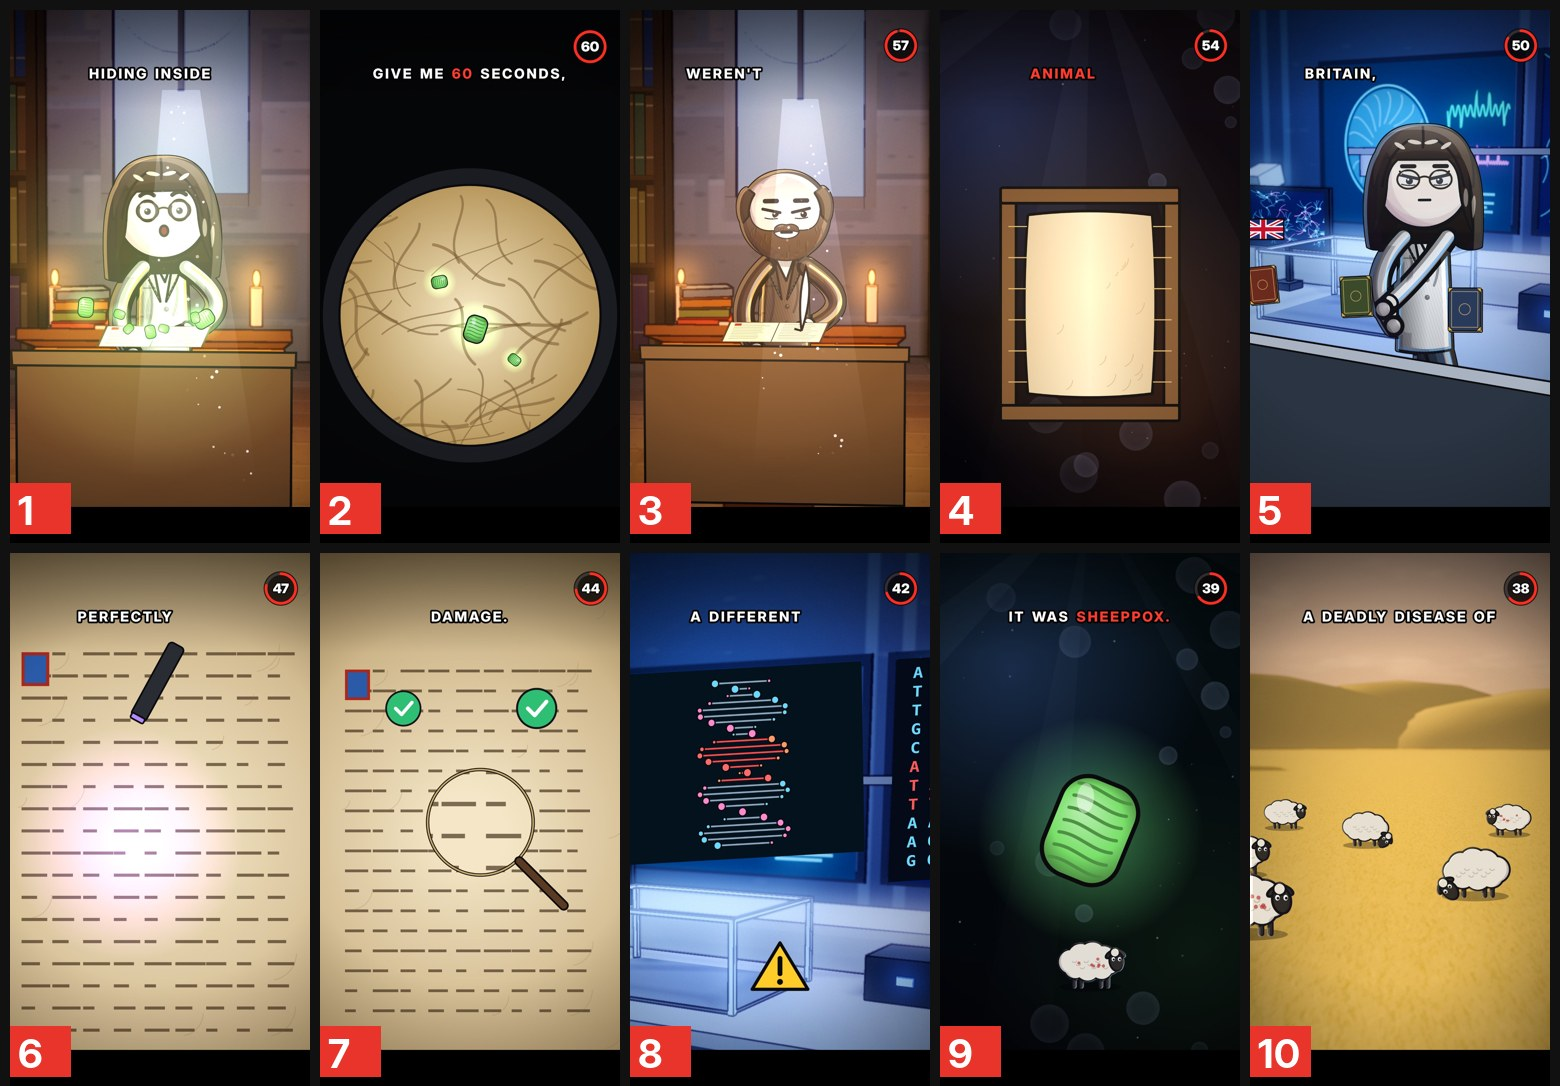
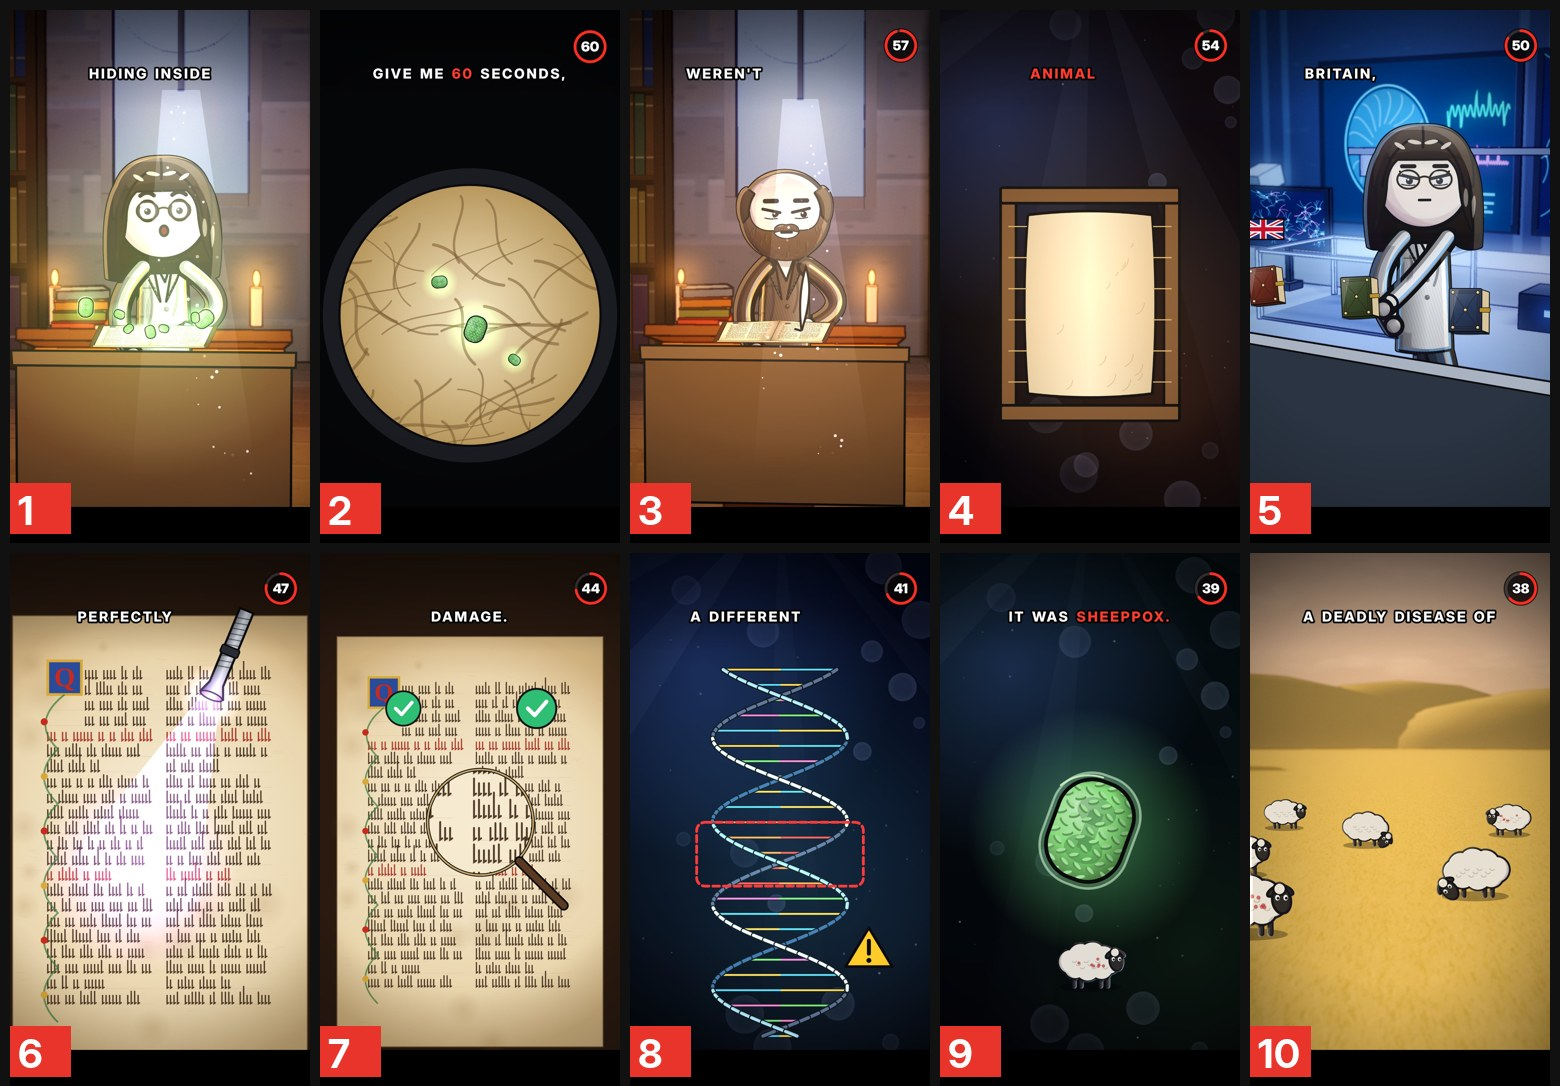
Virus video: better virus, UV torch, manuscript books/pages, DNA helix
Claude-Session: https://claude.ai/code/session_01WmZXnGWPQwk3MGbLdxyYXF

diff --git a/storybit/projects/virus/vr_chars.js b/storybit/projects/virus/vr_chars.js
@@ -66,3 +66,85 @@ function codex(c,x,y,s,rot,o={}){c.save();c.translate(x,y);c.rotate(rot);c.lineJ
   c.strokeStyle='rgba(230,190,110,0.8)';c.lineWidth=4*s;c.strokeRect(-84*s,-112*s,160*s,218*s);c.beginPath();c.arc(-4*s,-4*s,34*s,0,TAU);c.stroke();
   c.fillStyle='#d8b050';c.strokeStyle=K2;c.lineWidth=3*s;for(const [cx,cy] of [[-104,-134],[96,-134],[-104,128],[96,128]]){c.beginPath();c.moveTo(cx*s,cy*s);c.lineTo((cx+(cx<0?30:-30))*s,cy*s);c.lineTo(cx*s,(cy+(cy<0?30:-30))*s);c.closePath();c.fill();c.stroke();}
   if(o.glow)lightPool(c,0,0,220*s,'120,255,140',0.4*o.glow);c.restore();}
+// ===================== v2 props: better virus, helix, manuscripts =====================
+// poxvirus: rounded-brick body, translucent outer membrane, dense knobbly surface tubules, faint dumbbell core
+virusP=function(c,x,y,r,t,o={}){c.save();c.translate(x,y);c.rotate((o.rot||0)+Math.sin(t*0.8+(o.rot||0))*0.08);c.lineJoin='round';c.lineCap='round';const col=o.col||'#86e07a';
+  if(o.glow!==0)lightPool(c,0,0,r*2.6,o.gc||'120,255,140',0.4);
+  const body=()=>{rr(c,-r*0.82,-r*1.08,r*1.64,r*2.16,r*0.74);};
+  // outer membrane halo
+  c.fillStyle='rgba(200,255,200,0.18)';c.strokeStyle='rgba(220,255,220,0.55)';c.lineWidth=r*0.05;rr(c,-r*0.95,-r*1.22,r*1.9,r*2.44,r*0.86);c.fill();c.stroke();
+  const g=c.createRadialGradient(-r*0.35,-r*0.45,r*0.1,0,0,r*1.25);g.addColorStop(0,shd(col,0.5));g.addColorStop(0.55,col);g.addColorStop(1,shd(col,-0.5));c.fillStyle=g;body();c.fill();
+  c.save();body();c.clip();
+  // faint inner core (dumbbell) seen through the surface
+  c.fillStyle='rgba(30,90,40,0.28)';c.beginPath();c.ellipse(0,-r*0.42,r*0.42,r*0.3,0,0,TAU);c.ellipse(0,r*0.42,r*0.42,r*0.3,0,0,TAU);c.fill();c.fillRect(-r*0.16,-r*0.42,r*0.32,r*0.84);
+  // surface tubules: short rounded ridges in a woven pattern, lit on top
+  for(let row=0;row<11;row++)for(let k=0;k<6;k++){const yy=-r*1.0+row*r*0.2,xx=-r*0.72+k*r*0.29+(row%2)*r*0.145,a=(row%2?0.5:-0.5);
+    c.save();c.translate(xx,yy);c.rotate(a);c.fillStyle=shd(col,-0.3);c.beginPath();c.ellipse(0,r*0.02,r*0.12,r*0.05,0,0,TAU);c.fill();c.fillStyle=shd(col,0.25);c.beginPath();c.ellipse(0,-r*0.01,r*0.1,r*0.035,0,0,TAU);c.fill();c.restore();}
+  // shading toward the shadow side + rim light
+  const sg=c.createLinearGradient(-r,0,r,0);sg.addColorStop(0,'rgba(255,255,255,0.12)');sg.addColorStop(0.6,'rgba(0,0,0,0)');sg.addColorStop(1,'rgba(0,30,0,0.4)');c.fillStyle=sg;c.fillRect(-r,-r*1.2,r*2,r*2.4);c.restore();
+  c.strokeStyle=K2;c.lineWidth=Math.max(2,r*0.08);body();c.stroke();
+  c.strokeStyle='rgba(220,255,200,0.8)';c.lineWidth=Math.max(1.5,r*0.04);c.beginPath();c.arc(-r*0.1,-r*0.2,r*0.95,-2.6,-1.6);c.stroke();
+  c.restore();};
+// DNA double helix: two continuous backbone ribbons with depth (back strand drawn first, darker), base-pair rungs
+helix=function(c,x,y,h,w,t,o={}){c.save();c.translate(x,y);const N=80,turns=2.2,ph=t*1.6;const pt=(u,s)=>{const a=u*Math.PI*2*turns+ph+(s?Math.PI:0);return {x:Math.sin(a)*w,y:-h/2+u*h,z:Math.cos(a)};};
+  const bad=u=>o.bad&&u>=o.bad[0]/26&&u<=o.bad[1]/26;
+  // rungs (behind first, then ribbons by depth)
+  for(let i=0;i<=24;i++){const u=i/24,A=pt(u,0),B=pt(u,1);const mid={x:(A.x+B.x)/2,y:A.y};const cA=bad(u)?'#ff4a3a':['#5ad0ff','#ffd04a','#7ae06a','#ff7ac8'][i%4],cB=bad(u)?'#ff9a3a':['#ffd04a','#5ad0ff','#ff7ac8','#7ae06a'][i%4];
+    c.lineCap='round';c.strokeStyle=K2;c.lineWidth=11;seg(c,A.x,A.y,B.x,B.y);c.strokeStyle=cA;c.lineWidth=6;seg(c,A.x,A.y,mid.x,mid.y);c.strokeStyle=cB;seg(c,mid.x,mid.y,B.x,B.y);}
+  for(const pass of [0,1])for(const s of [0,1]){for(let i=0;i<N;i++){const u0=i/N,u1=(i+1)/N,P0=pt(u0,s),P1=pt(u1,s);const front=P0.z>0;if((pass===1)!==front)continue;
+      c.lineCap='round';c.strokeStyle=K2;c.lineWidth=18;seg(c,P0.x,P0.y,P1.x,P1.y);c.strokeStyle=front?(s?'#9ad8ff':'#e8f4ff'):(s?'#3a6a9a':'#5a6a8a');c.lineWidth=11;seg(c,P0.x,P0.y,P1.x,P1.y);
+      if(front){c.strokeStyle='rgba(255,255,255,0.6)';c.lineWidth=3;seg(c,P0.x-3,P0.y,P1.x-3,P1.y);}}}
+  if(o.glowOn!==0){c.globalCompositeOperation='lighter';const g=c.createRadialGradient(0,0,0,0,0,h*0.7);g.addColorStop(0,'rgba(90,200,255,0.18)');g.addColorStop(1,'rgba(90,200,255,0)');c.fillStyle=g;c.fillRect(-h,-h,2*h,2*h);}
+  c.restore();};
+// handwritten medieval script line (gothic minims) in a box
+function scriptLine(g,x,y,w,sz,col='rgba(50,30,15,0.85)',seed=0){g.save();g.strokeStyle=col;g.lineWidth=Math.max(1.2,sz*0.16);g.lineCap='round';let cx=x;let i=0;while(cx<x+w-sz){const wl=2+Math.floor(hash(seed+i*1.7)*5);for(let k=0;k<wl&&cx<x+w;k++){const hh=sz*(hash(seed+i+k*3.3)>0.82?1.5:1),up=hash(seed*3+i+k)>0.86;g.beginPath();g.moveTo(cx,y-(up?hh*1.4:hh));g.lineTo(cx,y);g.lineTo(cx+sz*0.18,y-sz*0.12);g.stroke();cx+=sz*0.42;}cx+=sz*0.55;i++;}g.restore();}
+// parchment surface (aged, fibrous, stains) filling w×h at 0,0
+function parchment(g,w,h,seed=0){const gr=g.createRadialGradient(w*0.5,h*0.45,w*0.1,w*0.5,h*0.5,w*0.8);gr.addColorStop(0,'#f6ead0');gr.addColorStop(0.7,'#ead6ae');gr.addColorStop(1,'#cfb07e');g.fillStyle=gr;g.fillRect(0,0,w,h);
+  for(let i=0;i<14;i++){const sx=hash(i*3+seed)*w,sy=hash(i*5+seed)*h,r=10+hash(i*7+seed)*w*0.08;const sgr=g.createRadialGradient(sx,sy,0,sx,sy,r);sgr.addColorStop(0,'rgba(150,110,60,0.18)');sgr.addColorStop(1,'rgba(150,110,60,0)');g.fillStyle=sgr;g.fillRect(sx-r,sy-r,2*r,2*r);}
+  g.strokeStyle='rgba(160,130,90,0.18)';g.lineWidth=1;for(let i=0;i<60;i++){const fx=hash(i*1.3+seed)*w,fy=hash(i*2.9+seed)*h;g.beginPath();g.moveTo(fx,fy);g.quadraticCurveTo(fx+8,fy+3,fx+16+hash(i)*20,fy+(hash(i*4)-0.5)*6);g.stroke();}}
+// one manuscript page: margins, two ruled columns of script, a gold+red illuminated initial, small border vine
+function msPage(g,w,h,seed=0,o={}){parchment(g,w,h,seed);const m=w*0.12,cw=(w-m*2.4)/2,sz=Math.max(3,h*0.018);
+  g.strokeStyle='rgba(170,120,90,0.25)';g.lineWidth=1;for(let col=0;col<2;col++){const x0=m+col*(cw+m*0.4);for(let i=0;i<22;i++){const yy=h*0.14+i*h*0.034;if(yy>h*0.88)break;g.beginPath();g.moveTo(x0,yy);g.lineTo(x0+cw,yy);g.stroke();const skip=(col===0&&i<4);scriptLine(g,x0+(skip?cw*0.36:0),yy-1,skip?cw*0.64:cw*(i%7===6?0.6:1),sz,i%9===4?'rgba(160,30,20,0.85)':'rgba(50,30,15,0.85)',seed*13+col*50+i*3);}}
+  // illuminated initial
+  const ix=m,iy=h*0.1,is=cw*0.32;g.fillStyle='#2a4a9a';g.fillRect(ix,iy,is,is);g.strokeStyle='#d8a838';g.lineWidth=Math.max(2,is*0.08);g.strokeRect(ix,iy,is,is);g.fillStyle='#c82a1e';g.font=`900 ${is*0.8}px serif`;g.textAlign='center';g.textBaseline='middle';g.fillText('Q',ix+is/2,iy+is*0.55);
+  g.strokeStyle='rgba(60,120,60,0.7)';g.lineWidth=Math.max(1.5,w*0.006);g.beginPath();g.moveTo(ix+is*0.5,iy+is);for(let k=0;k<6;k++){g.quadraticCurveTo(ix-m*0.5,iy+is+k*h*0.12+h*0.06,ix+is*0.3,iy+is+(k+1)*h*0.12);}g.stroke();for(let k=0;k<6;k++){g.fillStyle=k%2?'#d8a838':'#c82a1e';g.beginPath();g.arc(ix-m*0.1,iy+is+(k+0.5)*h*0.12,Math.max(2,w*0.012),0,TAU);g.fill();}}
+// an open codex lying flat, drawn in a w×h box (top-down-ish): thick cover boards, stacked page block, curved pages rising to the spine, gutter shadow
+function openBook(g,w,h,o={}){g.save();g.lineJoin='round';
+  // cover boards
+  g.fillStyle='#4a2414';g.strokeStyle=K2;g.lineWidth=Math.max(3,w*0.008);rr(g,0,h*0.06,w,h*0.94,w*0.02);g.fill();g.stroke();
+  // page block edges (thickness) under each page
+  for(const sd of [0,1]){const x0=sd?w*0.5:w*0.035,x1=sd?w*0.965:w*0.5;for(let k=0;k<5;k++){g.fillStyle=k%2?'#e2cfa4':'#d4bc8c';g.beginPath();g.moveTo(x0,h*0.9+k*h*0.012);g.lineTo(x1,h*0.9+k*h*0.012);g.lineTo(x1,h*0.92+k*h*0.012);g.lineTo(x0,h*0.92+k*h*0.012);g.fill();}}
+  // the two pages: top edge curves up toward the spine
+  for(const sd of [0,1]){g.save();g.beginPath();if(!sd){g.moveTo(w*0.04,h*0.1);g.quadraticCurveTo(w*0.3,h*0.08,w*0.5,h*0.0);g.lineTo(w*0.5,h*0.9);g.quadraticCurveTo(w*0.3,h*0.94,w*0.04,h*0.92);}else{g.moveTo(w*0.96,h*0.1);g.quadraticCurveTo(w*0.7,h*0.08,w*0.5,h*0.0);g.lineTo(w*0.5,h*0.9);g.quadraticCurveTo(w*0.7,h*0.94,w*0.96,h*0.92);}g.closePath();g.clip();
+    g.translate(sd?w*0.5:w*0.04,0);msPage(g,w*0.46,h*0.94,sd*7+(o.seed||0));g.restore();
+    g.strokeStyle=K2;g.lineWidth=Math.max(2.5,w*0.006);g.beginPath();if(!sd){g.moveTo(w*0.04,h*0.1);g.quadraticCurveTo(w*0.3,h*0.08,w*0.5,h*0.0);g.moveTo(w*0.04,h*0.1);g.lineTo(w*0.04,h*0.92);g.quadraticCurveTo(w*0.3,h*0.94,w*0.5,h*0.9);}else{g.moveTo(w*0.96,h*0.1);g.quadraticCurveTo(w*0.7,h*0.08,w*0.5,h*0.0);g.moveTo(w*0.96,h*0.1);g.lineTo(w*0.96,h*0.92);g.quadraticCurveTo(w*0.7,h*0.94,w*0.5,h*0.9);}g.stroke();}
+  // gutter shadow + spine line, light falloff across the curve
+  const gs=g.createLinearGradient(w*0.38,0,w*0.62,0);gs.addColorStop(0,'rgba(60,30,10,0)');gs.addColorStop(0.5,'rgba(60,30,10,0.45)');gs.addColorStop(1,'rgba(60,30,10,0)');g.fillStyle=gs;g.fillRect(w*0.38,0,w*0.24,h*0.92);
+  g.strokeStyle='rgba(40,20,8,0.8)';g.lineWidth=Math.max(2,w*0.005);g.beginPath();g.moveTo(w*0.5,0);g.lineTo(w*0.5,h*0.9);g.stroke();
+  if(o.glow>0){g.globalCompositeOperation='lighter';const gg=g.createRadialGradient(w/2,h/2,0,w/2,h/2,w*0.6);gg.addColorStop(0,`rgba(120,255,140,${0.6*o.glow})`);gg.addColorStop(1,'rgba(120,255,140,0)');g.fillStyle=gg;g.fillRect(0,0,w,h);}
+  g.restore();}
+// closed codex in 3/4: front board with tooling, visible page-block edge + spine thickness, brass bosses and clasp
+codex=function(c,x,y,s,rot,o={}){c.save();c.translate(x,y);c.rotate(rot);c.lineJoin='round';const col=o.col||'#6a2a1e',W2=200*s,H2=262*s,T2=46*s;
+  c.fillStyle='rgba(0,0,0,0.35)';c.beginPath();c.ellipse(T2*0.3,H2*0.52,W2*0.6,18*s,0,0,TAU);c.fill();
+  // page block (right + bottom thickness)
+  c.fillStyle='#e6d4aa';c.strokeStyle=K2;c.lineWidth=5*s;c.beginPath();c.moveTo(W2/2,-H2/2+6*s);c.lineTo(W2/2+T2,-H2/2+6*s+T2*0.35);c.lineTo(W2/2+T2,H2/2+T2*0.35-6*s);c.lineTo(W2/2,H2/2-6*s);c.closePath();c.fill();c.stroke();
+  c.strokeStyle='rgba(150,120,80,0.6)';c.lineWidth=1.5*s;for(let i=1;i<8;i++){const xx=W2/2+i*T2/8;c.beginPath();c.moveTo(xx,-H2/2+6*s+i*T2*0.35/8);c.lineTo(xx,H2/2-6*s+i*T2*0.35/8);c.stroke();}
+  c.fillStyle=shd(col,-0.35);c.strokeStyle=K2;c.lineWidth=5*s;c.beginPath();c.moveTo(-W2/2,H2/2);c.lineTo(W2/2,H2/2);c.lineTo(W2/2+T2,H2/2+T2*0.35);c.lineTo(-W2/2+T2,H2/2+T2*0.35);c.closePath();c.fill();c.stroke();
+  // front board
+  const gb=c.createLinearGradient(-W2/2,-H2/2,W2/2,H2/2);gb.addColorStop(0,shd(col,0.25));gb.addColorStop(0.5,col);gb.addColorStop(1,shd(col,-0.3));c.fillStyle=gb;rr(c,-W2/2,-H2/2,W2,H2,8*s);c.fill();c.stroke();
+  c.strokeStyle='rgba(40,15,8,0.6)';c.lineWidth=3*s;c.strokeRect(-W2/2+16*s,-H2/2+16*s,W2-32*s,H2-32*s);c.strokeRect(-W2/2+28*s,-H2/2+28*s,W2-56*s,H2-56*s);
+  c.beginPath();c.moveTo(-W2/2+28*s,-H2/2+28*s);c.lineTo(W2/2-28*s,H2/2-28*s);c.moveTo(W2/2-28*s,-H2/2+28*s);c.lineTo(-W2/2+28*s,H2/2-28*s);c.stroke();
+  const bs=(bx,by)=>{const g2=c.createRadialGradient(bx-3*s,by-3*s,1,bx,by,13*s);g2.addColorStop(0,'#fff2b8');g2.addColorStop(1,'#8a6420');c.fillStyle=g2;c.strokeStyle=K2;c.lineWidth=3*s;c.beginPath();c.arc(bx,by,11*s,0,TAU);c.fill();c.stroke();};
+  for(const [bx,by] of [[-W2/2+24*s,-H2/2+24*s],[W2/2-24*s,-H2/2+24*s],[-W2/2+24*s,H2/2-24*s],[W2/2-24*s,H2/2-24*s],[0,0]])bs(bx,by);
+  c.fillStyle='#b8902e';c.strokeStyle=K2;c.lineWidth=3*s;rr(c,W2/2-14*s,-14*s,T2+20*s,28*s,4*s);c.fill();c.stroke();
+  c.fillStyle='rgba(255,255,255,0.18)';c.beginPath();c.moveTo(-W2/2+8*s,-H2/2+8*s);c.lineTo(-W2/2+60*s,-H2/2+8*s);c.lineTo(-W2/2+8*s,H2/2-60*s);c.closePath();c.fill();
+  if(o.glow)lightPool(c,0,0,220*s,'120,255,140',0.4*o.glow);c.restore();};
+// handheld UV torch: knurled metal grip, glowing violet lens, beam cone
+function uvTorch(c,x,y,ang,s,beamLen=700){c.save();c.translate(x,y);c.rotate(ang);c.lineJoin='round';
+  c.save();c.globalCompositeOperation='lighter';const bg=c.createLinearGradient(0,0,beamLen*s,0);bg.addColorStop(0,'rgba(170,110,255,0.55)');bg.addColorStop(1,'rgba(150,90,255,0)');c.fillStyle=bg;c.beginPath();c.moveTo(0,-26*s);c.lineTo(beamLen*s,-200*s);c.lineTo(beamLen*s,200*s);c.lineTo(0,26*s);c.closePath();c.fill();c.restore();
+  c.strokeStyle=K2;c.lineWidth=6*s;const mg=c.createLinearGradient(0,-30*s,0,30*s);mg.addColorStop(0,'#8a8e98');mg.addColorStop(0.45,'#d8dce4');mg.addColorStop(1,'#3a3e48');c.fillStyle=mg;
+  c.beginPath();c.moveTo(-260*s,-20*s);c.lineTo(-40*s,-20*s);c.lineTo(-6*s,-34*s);c.lineTo(-6*s,34*s);c.lineTo(-40*s,20*s);c.lineTo(-260*s,20*s);c.closePath();c.fill();c.stroke();
+  c.strokeStyle='rgba(30,30,40,0.55)';c.lineWidth=3*s;for(let i=0;i<10;i++){const xx=-240*s+i*16*s;seg(c,xx,-18*s,xx+8*s,18*s);}
+  c.fillStyle='#2a2c34';rr(c,-150*s,-26*s,24*s,52*s,6*s);c.fill();c.strokeStyle=K2;c.lineWidth=4*s;c.stroke();
+  const lg=c.createRadialGradient(0,0,0,0,0,40*s);lg.addColorStop(0,'#ffffff');lg.addColorStop(0.4,'#c89aff');lg.addColorStop(1,'#6a3ac8');c.fillStyle=lg;c.beginPath();c.ellipse(-4*s,0,10*s,32*s,0,0,TAU);c.fill();c.strokeStyle=K2;c.lineWidth=4*s;c.stroke();
+  lightPool(c,0,0,90*s,'190,140,255',0.6);c.restore();}

diff --git a/storybit/projects/virus/vr_shots.js b/storybit/projects/virus/vr_shots.js
@@ -8,10 +8,7 @@ function deskFront(c){occluder(c,[[-0.7,0.78,-0.85],[0.7,0.78,-0.85],[0.7,0,-0.8
 function candles(c,t,a=1){for(const [i,p] of CANDLES.entries()){const q=pp(p);const fl=0.85+0.15*Math.sin(t*17+i*3)+0.08*Math.sin(t*31+i);lightPool(c,q.x,q.y-0.05*q.s*160,q.s*230,'255,170,80',0.22*fl*a);}}
 function libBeam(c,t){const a=pp([0,2.6,-4.85]),b=pp([0.2,0,-1.4]);dustBeam(c,t,a.x,a.y,b.x,b.y,140,46,'190,210,255');}
 // an open book lying on the desk at its 3D spot (so hands can touch it and pages can move)
-function deskBook(c,t,o={}){onQuad(c,[-0.3,0.905,-1.36],[0.3,0.905,-1.36],[-0.3,0.86,-0.95],600,400,(g,w,h)=>{g.fillStyle='#4a2a18';g.fillRect(0,0,w,h);g.fillStyle='#f0e2c0';g.fillRect(12,10,w/2-14,h-20);g.fillRect(w/2+2,10,w/2-14,h-20);
-  g.strokeStyle='rgba(60,40,20,0.55)';g.lineWidth=5;for(let i=0;i<10;i++){const y=40+i*32;g.beginPath();g.moveTo(40,y);g.lineTo(w/2-40-hash(i)*60,y);g.stroke();g.beginPath();g.moveTo(w/2+30,y);g.lineTo(w-40-hash(i*3)*60,y);g.stroke();}
-  g.fillStyle='#a8281e';g.fillRect(40,30,40,44);g.strokeStyle='#2a1a10';g.lineWidth=4;g.beginPath();g.moveTo(w/2,8);g.lineTo(w/2,h-8);g.stroke();
-  if(o.glow>0){g.save();g.globalCompositeOperation='lighter';const gg=g.createRadialGradient(w/2,h/2,0,w/2,h/2,w*0.6);gg.addColorStop(0,`rgba(120,255,140,${0.7*o.glow})`);gg.addColorStop(1,'rgba(120,255,140,0)');g.fillStyle=gg;g.fillRect(0,0,w,h);g.restore();}});
+function deskBook(c,t,o={}){onQuad(c,[-0.34,0.91,-1.4],[0.34,0.91,-1.4],[-0.34,0.86,-0.93],680,460,(g,w,h)=>openBook(g,w,h,{glow:o.glow||0,seed:3}));
   if(o.turn>0&&o.turn<1){const p=pp([0,0.92,-1.15]);c.save();c.translate(p.x,p.y);c.scale(1,0.35);c.rotate(-Math.PI*o.turn);c.fillStyle='#f6ead0';c.strokeStyle=K2;c.lineWidth=4;c.fillRect(0,-60,p.s*28,120);c.strokeRect(0,-60,p.s*28,120);c.restore();}}
 function floatViruses(c,t,x,y,k,n=7,sc=1){for(let i=0;i<n;i++){const kk=clamp(k*1.3-i*0.08);if(kk<=0)continue;const a=(i%2?0:Math.PI)+(i%2?-1:1)*(0.15+hash(i*3)*0.5),d=(80+hash(i*5)*320)*kk;virusP(c,x+Math.cos(a)*d+Math.sin(t*2+i)*10,y+Math.sin(a)*d*0.6+20,(10+hash(i*7)*12)*sc,t+i,{rot:i});}}
 // 0 · "Scientists just found a virus hiding inside a 1,000-year-old book." the scientist opens the old book; green light pours out
@@ -42,21 +39,19 @@ XV.tested=(c,t,u,d)=>{camAt(c,'ml_wide',[0,1.0,-0.9],K3(u,d,1.15,1.25),{oy:-40})
   for(const [x,col,w,fn] of B){const q=pp([x,0.95,-0.5]);codex(c,q.x,q.y-q.s*14,q.s*0.11,-0.05+x*0.1,{col});const k=popK(t,wb(w,15.5)-0.05,0.3);if(k>0){c.save();c.translate(q.x,q.y-q.s*58);c.scale(k,k);fn(c,0,0,120);c.restore();}}
   c.restore();lens(c,t);};
 // 5 · "The pages looked perfectly clean." 6 · "No spots. No damage." a page under UV light, a magnifier sweeps it
-function pageClose(c,t){c.fillStyle='#d8c49a';c.fillRect(0,0,W,H);const g=c.createRadialGradient(540,1000,100,540,1000,1100);g.addColorStop(0,'#f4e6c6');g.addColorStop(1,'#b89a68');c.fillStyle=g;c.fillRect(0,0,W,H);
-  c.fillStyle='rgba(60,40,20,0.65)';for(let i=0;i<18;i++){const y=420+i*72;for(let k=0;k<9;k++){const w=40+hash(i*9+k)*70;c.fillRect(90+k*100,y,w*0.9,10);}}c.fillStyle='#a8281e';c.fillRect(90,420,90,110);c.fillStyle='#2a5aa8';c.fillRect(100,430,70,90);
-  c.strokeStyle='rgba(150,120,80,0.25)';c.lineWidth=3;for(let i=0;i<20;i++){c.beginPath();c.arc(hash(i)*W,hash(i*3)*H,30+hash(i*5)*80,0,1.4);c.stroke();}}
+function pageClose(c,t){c.fillStyle='#2a1a10';c.fillRect(0,0,W,H);c.save();c.translate(60,300);msPage(c,960,1480,11);c.restore();c.strokeStyle='rgba(60,40,20,0.5)';c.lineWidth=6;c.strokeRect(60,300,960,1480);}
 XV.clean=(c,t,u,d)=>{c.save();const z=1.05+u*0.06;c.translate(540,1000);c.scale(z,z);c.translate(-540,-1000);pageClose(c,t);c.restore();
-  // UV wand from the side, its violet light sweeping the page
-  const sx=lerp(-100,1200,EZ.io(u/d));c.save();c.globalCompositeOperation='lighter';const g=c.createRadialGradient(sx,1050,0,sx,1050,420);g.addColorStop(0,'rgba(150,80,255,0.45)');g.addColorStop(1,'rgba(150,80,255,0)');c.fillStyle=g;c.fillRect(0,0,W,H);c.restore();
-  c.save();c.translate(sx+60,560);c.rotate(0.5);c.fillStyle='#2a2c34';c.strokeStyle=K2;c.lineWidth=6;rr(c,-30,-260,60,300,14);c.fill();c.stroke();c.fillStyle='#b68aff';rr(c,-26,30,52,20,6);c.fill();c.stroke();c.restore();lens(c,t);};
+  const sx=lerp(120,980,EZ.io(u/d));c.save();c.globalCompositeOperation='lighter';const g=c.createRadialGradient(sx,1150,0,sx,1150,360);g.addColorStop(0,'rgba(170,100,255,0.5)');g.addColorStop(1,'rgba(150,80,255,0)');c.fillStyle=g;c.fillRect(0,0,W,H);c.restore();
+  uvTorch(c,sx+260,520,Math.atan2(1150-520,sx-(sx+260)),1.3,600);lens(c,t);};
 XV.nospots=(c,t,u,d)=>{pageClose(c,t);const mx=lerp(330,760,EZ.io(u/d)),my=1050+Math.sin(u*3)*120;c.save();c.beginPath();c.arc(mx,my,190,0,TAU);c.clip();c.translate(mx,my);c.scale(1.6,1.6);c.translate(-mx,-my);pageClose(c,t);c.restore();
   c.strokeStyle=K2;c.lineWidth=12;c.beginPath();c.arc(mx,my,190,0,TAU);c.stroke();c.strokeStyle='#c8a868';c.lineWidth=6;c.stroke();c.strokeStyle=K2;c.lineWidth=36;c.lineCap='round';seg(c,mx+140,my+140,mx+300,my+300);c.strokeStyle='#5a3a22';c.lineWidth=24;seg(c,mx+140,my+140,mx+300,my+300);
   check(c,300,560,62,popK(t,wb('spots',20.8),0.3));check(c,780,560,62,popK(t,wb('damage',21.8),0.3));lens(c,t);};
 // 7 · "But the DNA told a different story." the lab's monitor wall: a helix, part of it turns red
-XV.dna=(c,t,u,d)=>{camAt(c,'ml_wide',[-0.1,1.6,-2.7],K3(u,d,1.3,1.6),{oy:0});const bad=t>wb('different',24.4);
-  onQuad(c,[-1.75,2.3,-2.72],[-0.15,2.3,-2.72],[-1.75,1.1,-2.72],600,450,(g,w,h)=>{g.fillStyle='#04121e';g.fillRect(0,0,w,h);helix(g,w/2,h/2,h*0.85,110,t,{bad:bad?[9,15]:null});});
-  onQuad(c,[0.05,2.3,-2.72],[1.65,2.3,-2.72],[0.05,1.1,-2.72],600,450,(g,w,h)=>{g.fillStyle='#050a18';g.fillRect(0,0,w,h);g.font='700 30px monospace';for(let i=0;i<11;i++){g.fillStyle=bad&&i>4&&i<8?'#ff5a5a':'#6ad8ff';g.fillText('ACGTTGCA'.split('').map((ch,k)=>'ACGT'.charAt(Math.floor(hash(i*8+k+Math.floor(t*3))*4))).join(' '),30,40+i*38);}});
-  c.restore();if(bad)warnTri(c,540,1500,90,popK(t,wb('different',24.4),0.3));lens(c,t,{v:0.6});};
+XV.dna=(c,t,u,d)=>{const td=wb('dna',23.6);if(t<td+0.35){camAt(c,'ml_wide',[-0.1,1.6,-2.7],K3(u,0.6,1.3,1.6),{oy:0});
+    onQuad(c,[-1.75,2.3,-2.72],[-0.15,2.3,-2.72],[-1.75,1.1,-2.72],600,450,(g,w,h)=>{g.fillStyle='#04121e';g.fillRect(0,0,w,h);helix(g,w/2,h/2,h*0.9,130,t,{glowOn:0});});c.restore();lens(c,t,{v:0.6});return;}
+  const bad=t>wb('different',24.4);richBG(c,t,'6,16,34');const z=1.0+0.08*sgB(t,td,td+2);c.save();c.translate(540,1080);c.scale(z,z);helix(c,0,0,1250,230,t,{bad:bad?[10,16]:null});c.restore();
+  if(bad){const k=popK(t,wb('different',24.4),0.3);c.save();c.translate(540,1080);c.scale(k,k);c.strokeStyle='#ff3a3a';c.lineWidth=10;c.setLineDash([24,14]);rr(c,-300,-110,600,230,30);c.stroke();c.setLineDash([]);c.restore();warnTri(c,860,1430,80,k);}
+  lens(c,t,{v:0.55});};
 // 8 · "It was sheeppox." the virus particle, huge, next to its victim
 XV.pox=(c,t,u,d)=>{richBG(c,t,'10,30,16');const k=popK(t,LT(8),0.4);c.save();c.translate(540,1000);c.scale(k,k);virusP(c,0,0,170,t,{rot:0.35,gc:'120,255,140'});c.restore();
   const s2=popK(t,wb('sheeppox',26.7),0.35);if(s2>0){c.save();c.translate(540,1560);c.scale(s2,s2);sheep(c,0,0,1.4,{t,pox:1});c.restore();}lens(c,t);};
@@ -105,7 +100,7 @@ XV.reveal=(c,t,u,d)=>{richBG(c,t,'40,26,16');const k=EZ.io(sgB(t,wb('animal',60.
   c.save();c.globalAlpha=1-k;codex(c,540,1100,2.4,-0.04,{col:'#6a2a1e'});c.restore();c.save();c.globalAlpha=k;sheep(c,540,1320,2.6,{t,f:1});c.restore();
   if(k>0&&k<1){for(let i=0;i<20;i++){const a=i/20*TAU;c.fillStyle=`rgba(255,230,170,${1-k})`;c.beginPath();c.arc(540+Math.cos(a)*300*k,1100+Math.sin(a)*300*k,6,0,TAU);c.fill();}}lens(c,t);};
 // 21 · "Every page was once a living creature…" pages fan out; each one carries the faint outline of an animal
-XV.pages=(c,t,u,d)=>{richBG(c,t,'30,20,14');const k=EZ.out(sgB(t,LT(21),LT(21)+1.4));for(let i=0;i<7;i++){const a=(i-3)*0.22*k,x=540+(i-3)*120*k,y=1150-Math.abs(i-3)*20*k;c.save();c.translate(x,y);c.rotate(a);c.fillStyle='#f0e2c0';c.strokeStyle=K2;c.lineWidth=5;rr(c,-130,-180,260,360,8);c.fill();c.stroke();
+XV.pages=(c,t,u,d)=>{richBG(c,t,'30,20,14');const k=EZ.out(sgB(t,LT(21),LT(21)+1.4));for(let i=0;i<7;i++){const a=(i-3)*0.22*k,x=540+(i-3)*120*k,y=1150-Math.abs(i-3)*20*k;c.save();c.translate(x,y);c.rotate(a);c.save();c.beginPath();c.moveTo(-130,-180);for(let k=0;k<=12;k++)c.lineTo(-130+k*260/12,-180+Math.sin(k*1.7+i)*4);for(let k=0;k<=16;k++)c.lineTo(130+Math.sin(k*1.3+i)*4,-180+k*360/16);for(let k=0;k<=12;k++)c.lineTo(130-k*260/12,180+Math.sin(k*2.1+i)*4);for(let k=0;k<=16;k++)c.lineTo(-130+Math.sin(k*1.9+i)*4,180-k*360/16);c.closePath();c.save();c.clip();c.translate(-130,-180);msPage(c,260,360,i*5);c.restore();c.strokeStyle=K2;c.lineWidth=5;c.stroke();c.restore();
     c.globalAlpha=0.28*k;sheep(c,0,90,0.9,{t,f:i%2?-1:1,seed:i});c.restore();}lightPool(c,540,1100,600,'255,210,150',0.2);lens(c,t);};
 // 22 · "and it never stopped telling its story." back in the library, the book glows softly; fade to black
 XV.outro=(c,t,u,d)=>{camAt(c,'lb_wide',[0,1.3,-1.6],K3(u,d,1.5,1.2),{oy:-40});deskBook(c,t,{glow:0.5});candles(c,t);libBeam(c,t);const bp=pp([0,0.95,-1.15]);lightPool(c,bp.x,bp.y-60,300,'255,220,150',0.3);c.restore();
